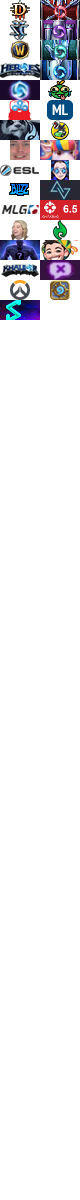
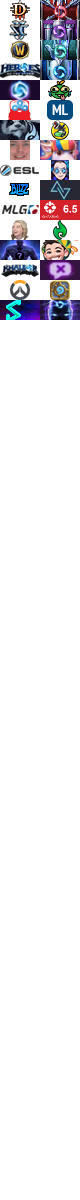
Add Blizzcon2014 Portrait for my own selfish reasons

Changed region(s): [[0.5, 0.2467, 1.0, 0.2775]]

diff --git a/user_flair/general_flair.scss b/user_flair/general_flair.scss
@@ -121,3 +121,7 @@
 .flair-g-TGNSquadron::before {
   background-position: 0 -300px;
 }
+
+.flair-g-blizzcon2014::before {
+  background-position: 40px -300px;
+}
